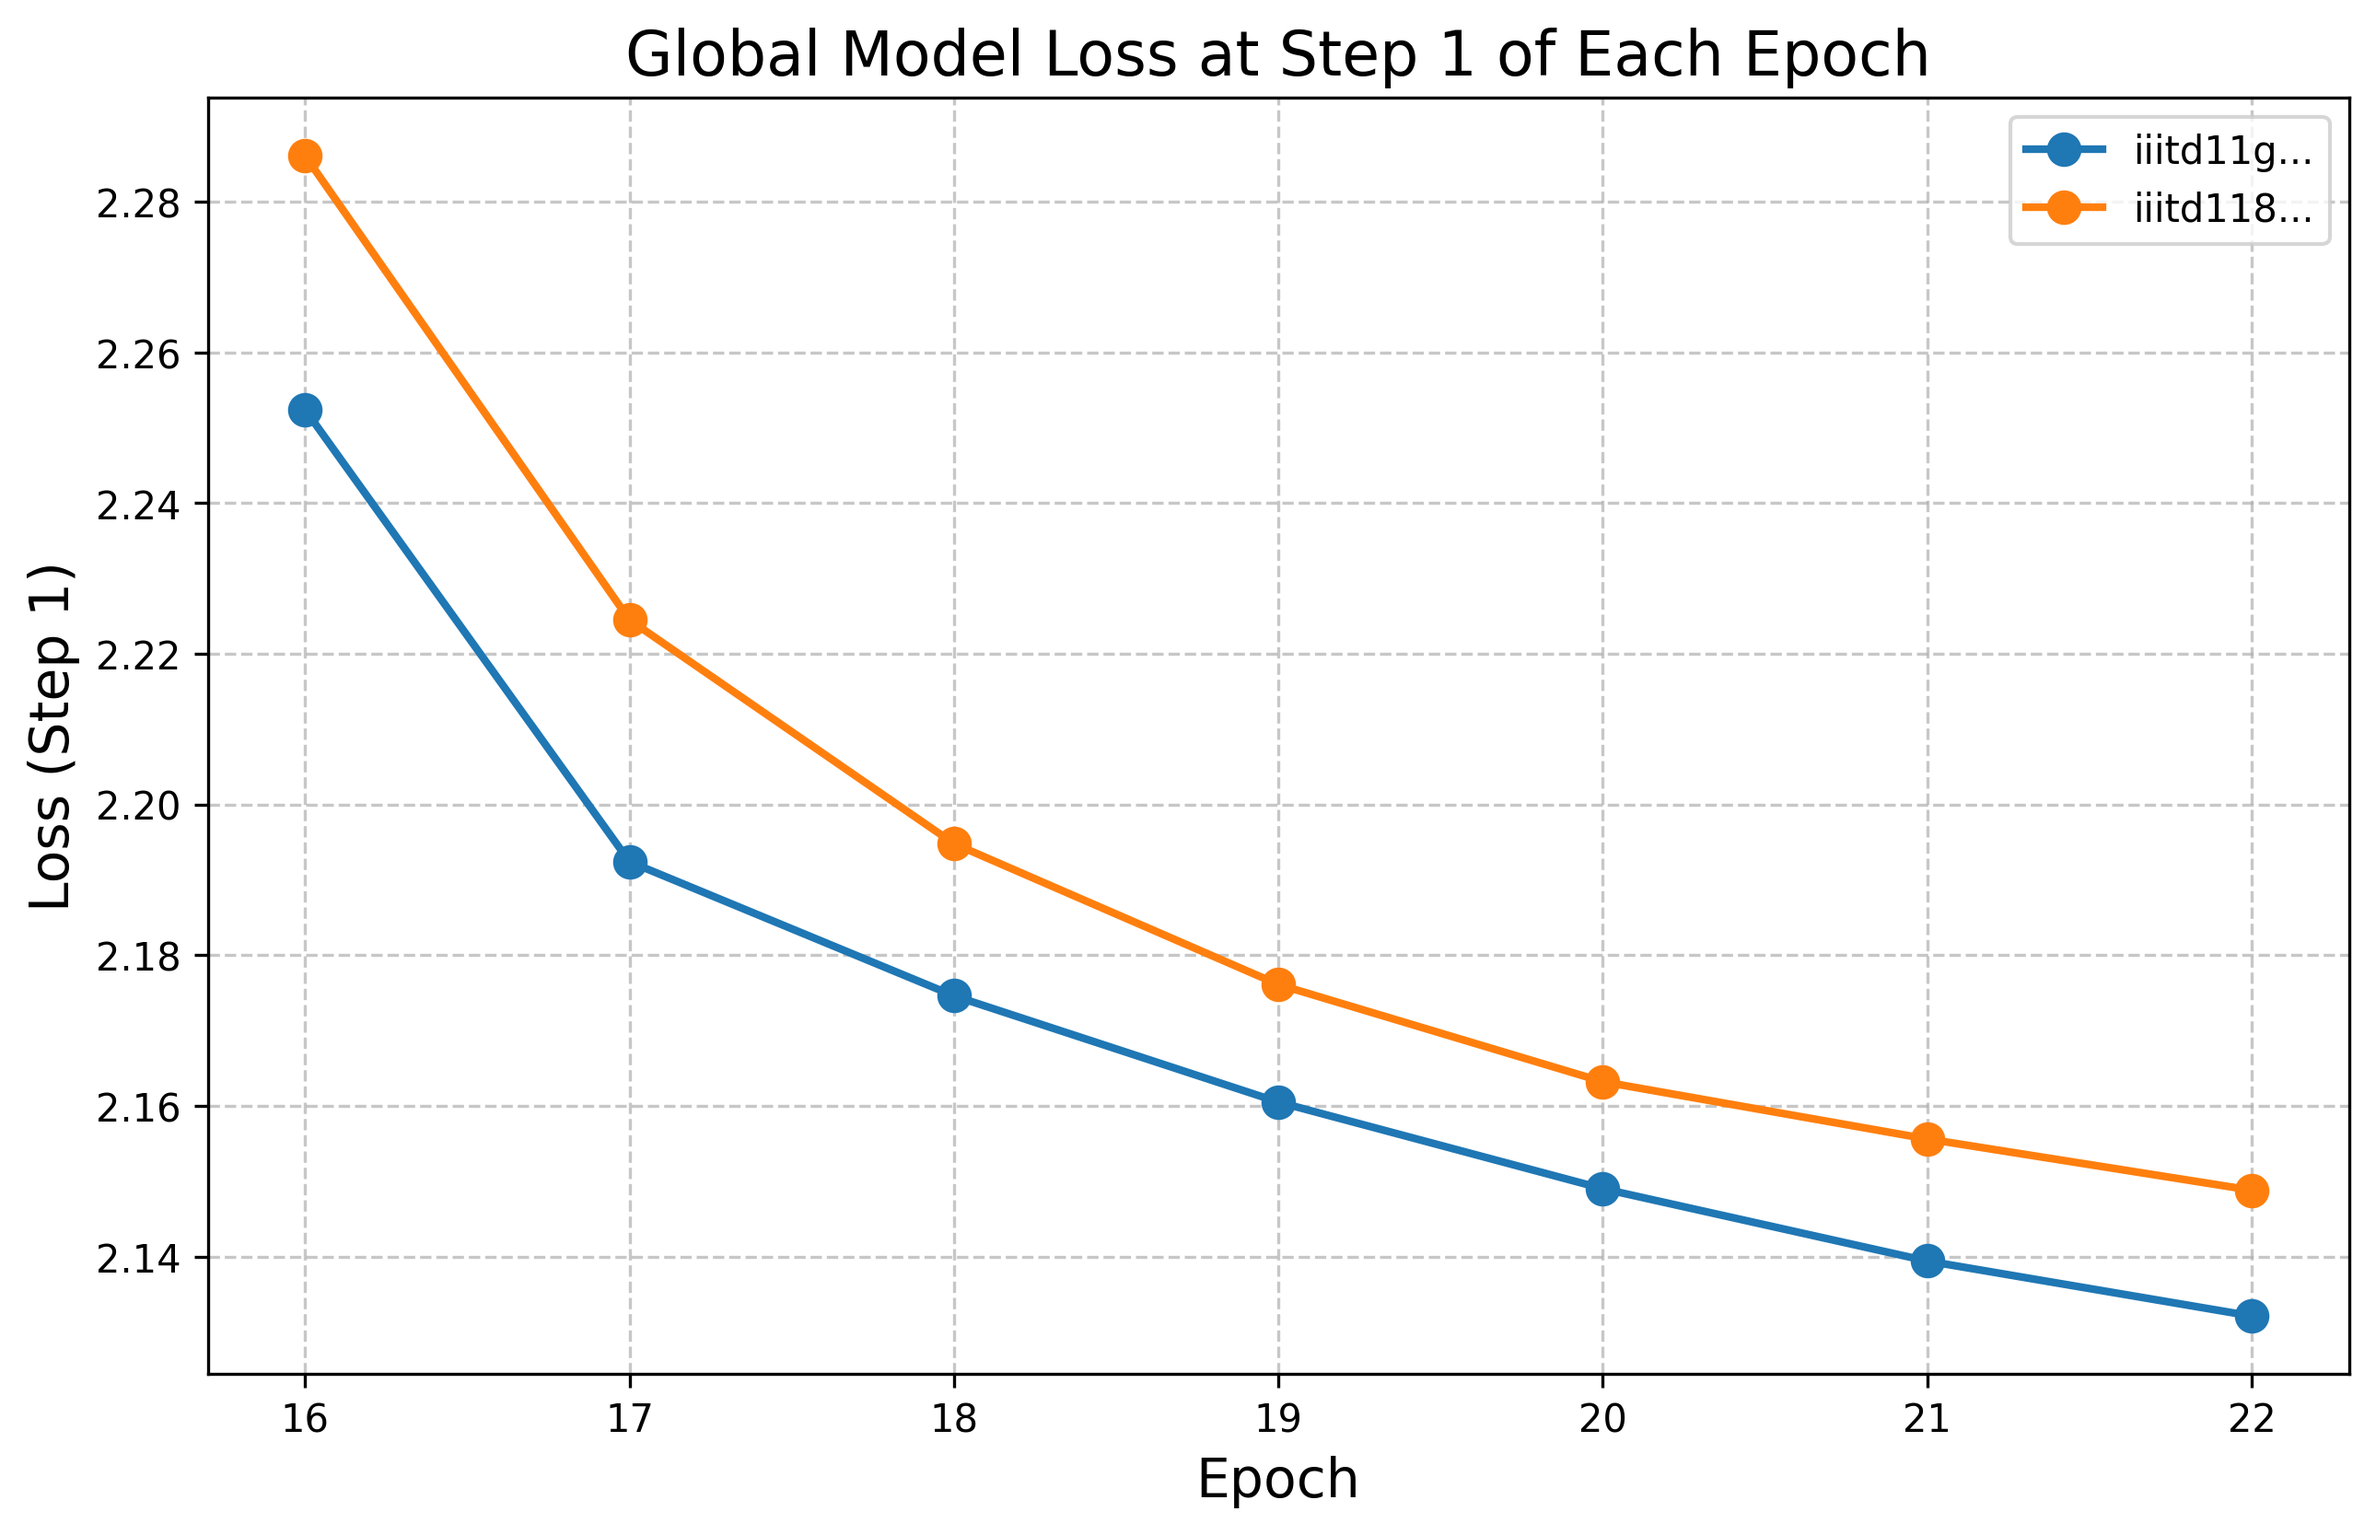
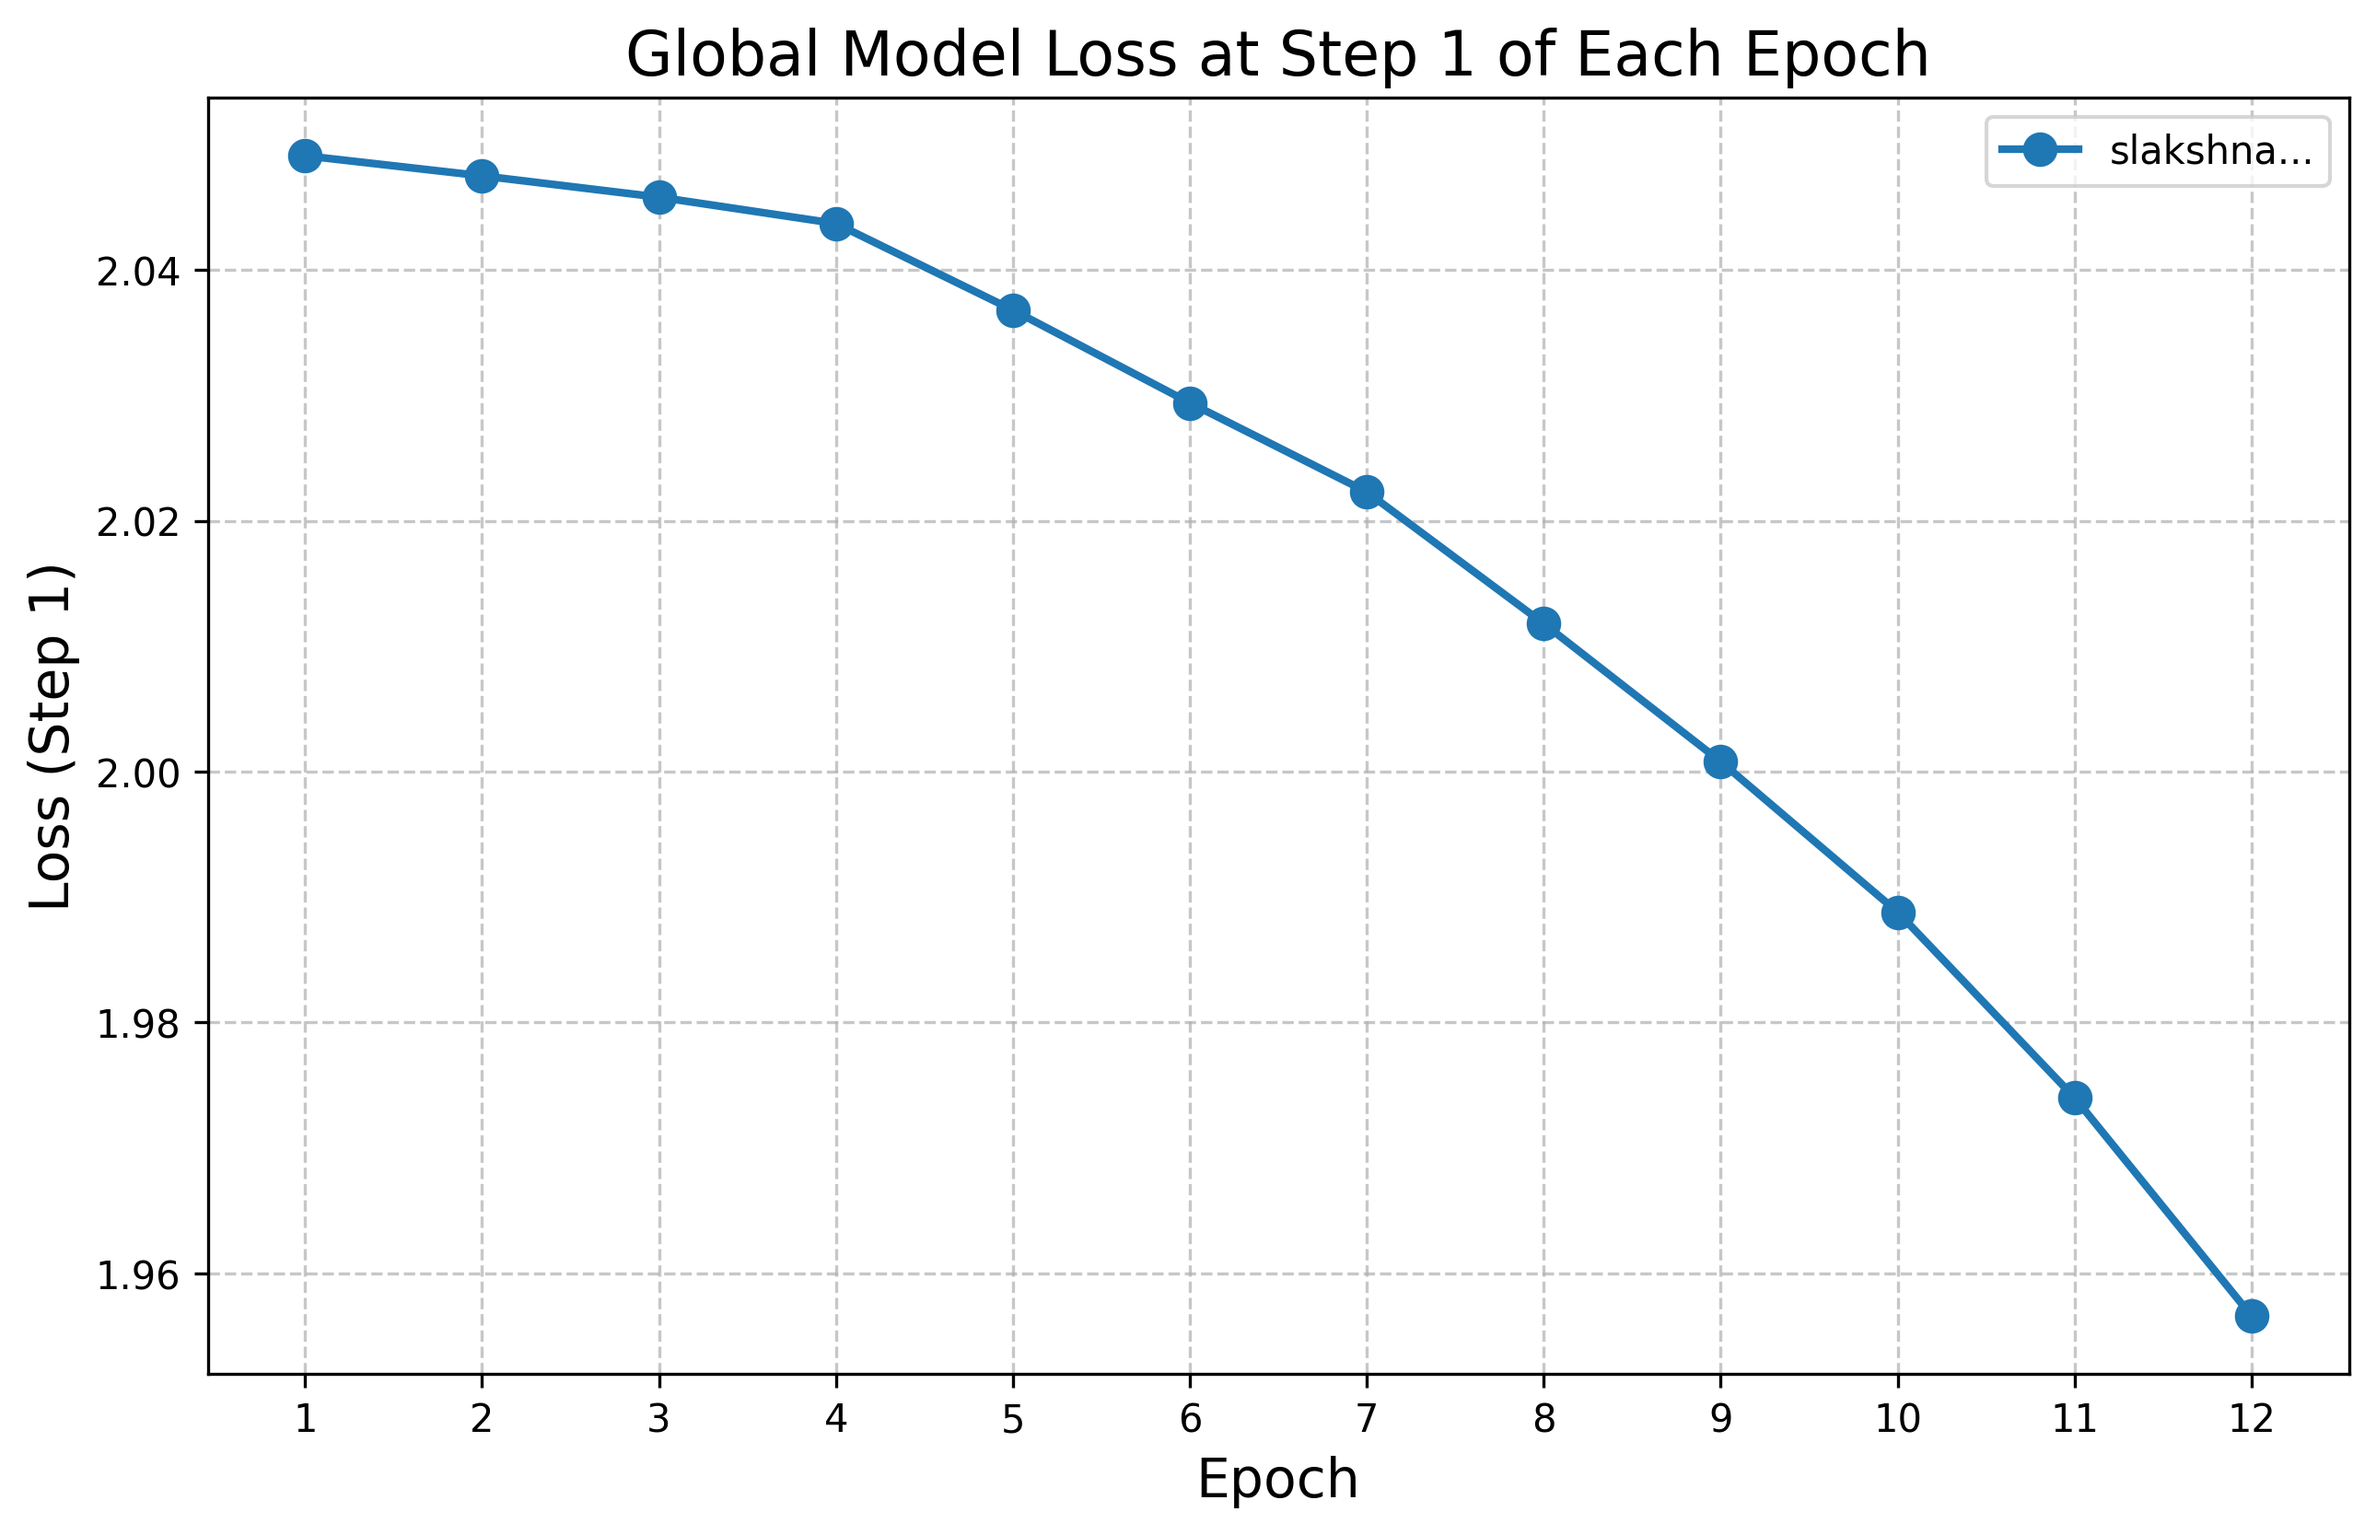
loss trajectory logs

diff --git a/plots_script/plot_loss.py b/plots_script/plot_loss.py
@@ -4,7 +4,7 @@ import os
 import shutil
 
 # Read the CSV file
-csv_path = "logs/epoch_loss_tracking.csv"
+csv_path = "../logs/epoch_loss_tracking.csv"
 df = pd.read_csv(csv_path)
 
 # Filter for the first step of every epoch
@@ -34,7 +34,7 @@ plt.xticks(sorted(df_step1['epoch'].unique()))
 plt.legend()
 
 # Save to the current directory
-local_plot_path = "epoch_loss_step1.png"
+local_plot_path = "../results/epoch_loss_step1.png"
 plt.savefig(local_plot_path, dpi=300, bbox_inches='tight')
 print(f"Plot saved to {os.path.abspath(local_plot_path)}")
 
